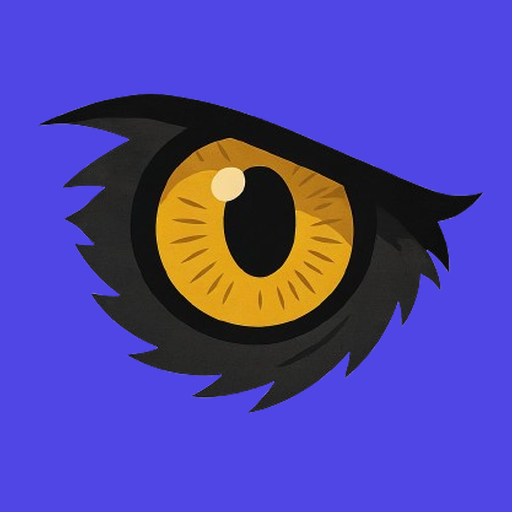
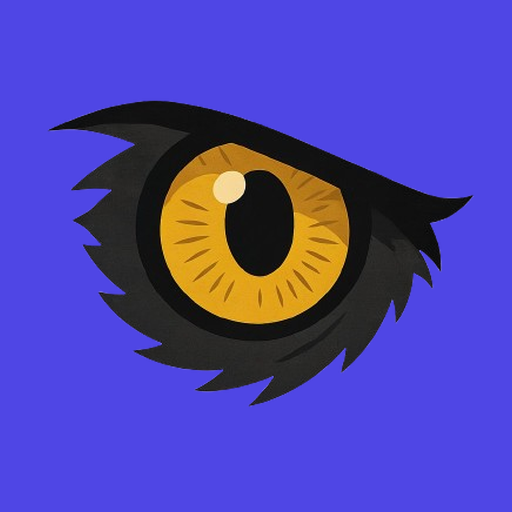
fix(v101): maskable safe=1.15

diff --git a/index.html b/index.html
@@ -10,7 +10,7 @@
 <!-- Force-update: unregister → re-register → SW ready → reload -->
 <script>
   (function() {
-    var V = '100';
+    var V = '101';
     if (localStorage.getItem('_visao_build') !== V) {
       localStorage.setItem('_visao_build', V);
       if ('caches' in window) {
@@ -43,7 +43,7 @@
 <meta name="apple-mobile-web-app-status-bar-style" content="black-translucent">
 <meta name="apple-mobile-web-app-title" content="Falcon">
 <meta name="mobile-web-app-capable" content="yes">
-<link rel="stylesheet" href="css/styles.css?v=20260708o">
+<link rel="stylesheet" href="css/styles.css?v=20260708p">
 <style>.onboarding-logo,.ajustes-avatar{background:#4f46e5!important}</style>
 <script>
   // Aplica tema ANTES de qualquer render — evita flash de tema errado
@@ -65,7 +65,7 @@
       <div>Carregando Falcon...</div>
     </div>
   </div>
-  <script type="module" src="js/main.js?v=20260708o"></script>
+  <script type="module" src="js/main.js?v=20260708p"></script>
 
   <!-- Registro do Service Worker (PWA) -->
   <script>

diff --git a/sw.js b/sw.js
@@ -6,7 +6,7 @@
 //   - Firebase/CDN → sempre rede (não cacheia)
 // ═══════════════════════════════════════════════════════════════
 
-const CACHE_NAME = 'visao-v100';
+const CACHE_NAME = 'visao-v101';
 const CORE_ASSETS = [
   './',
   './index.html',
